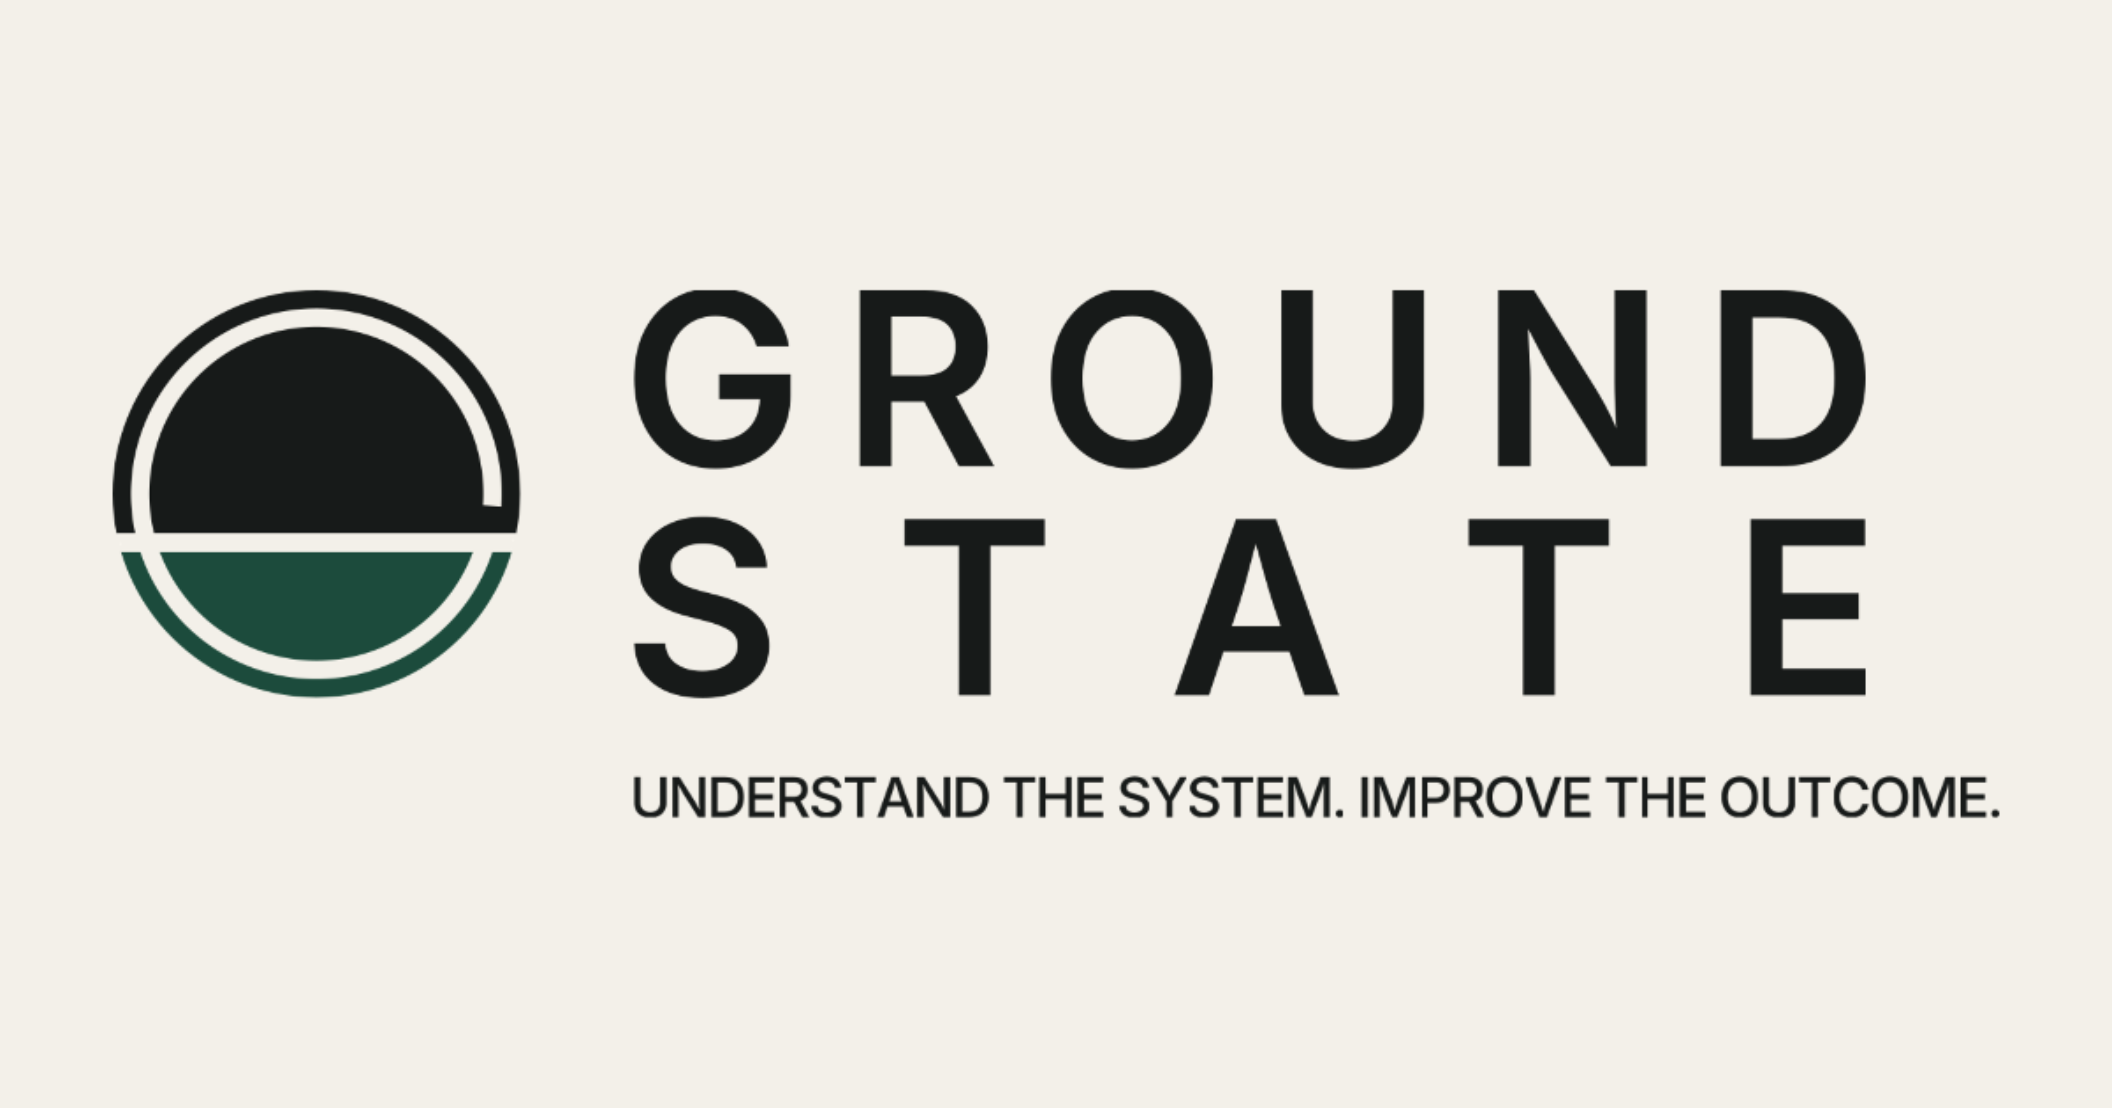
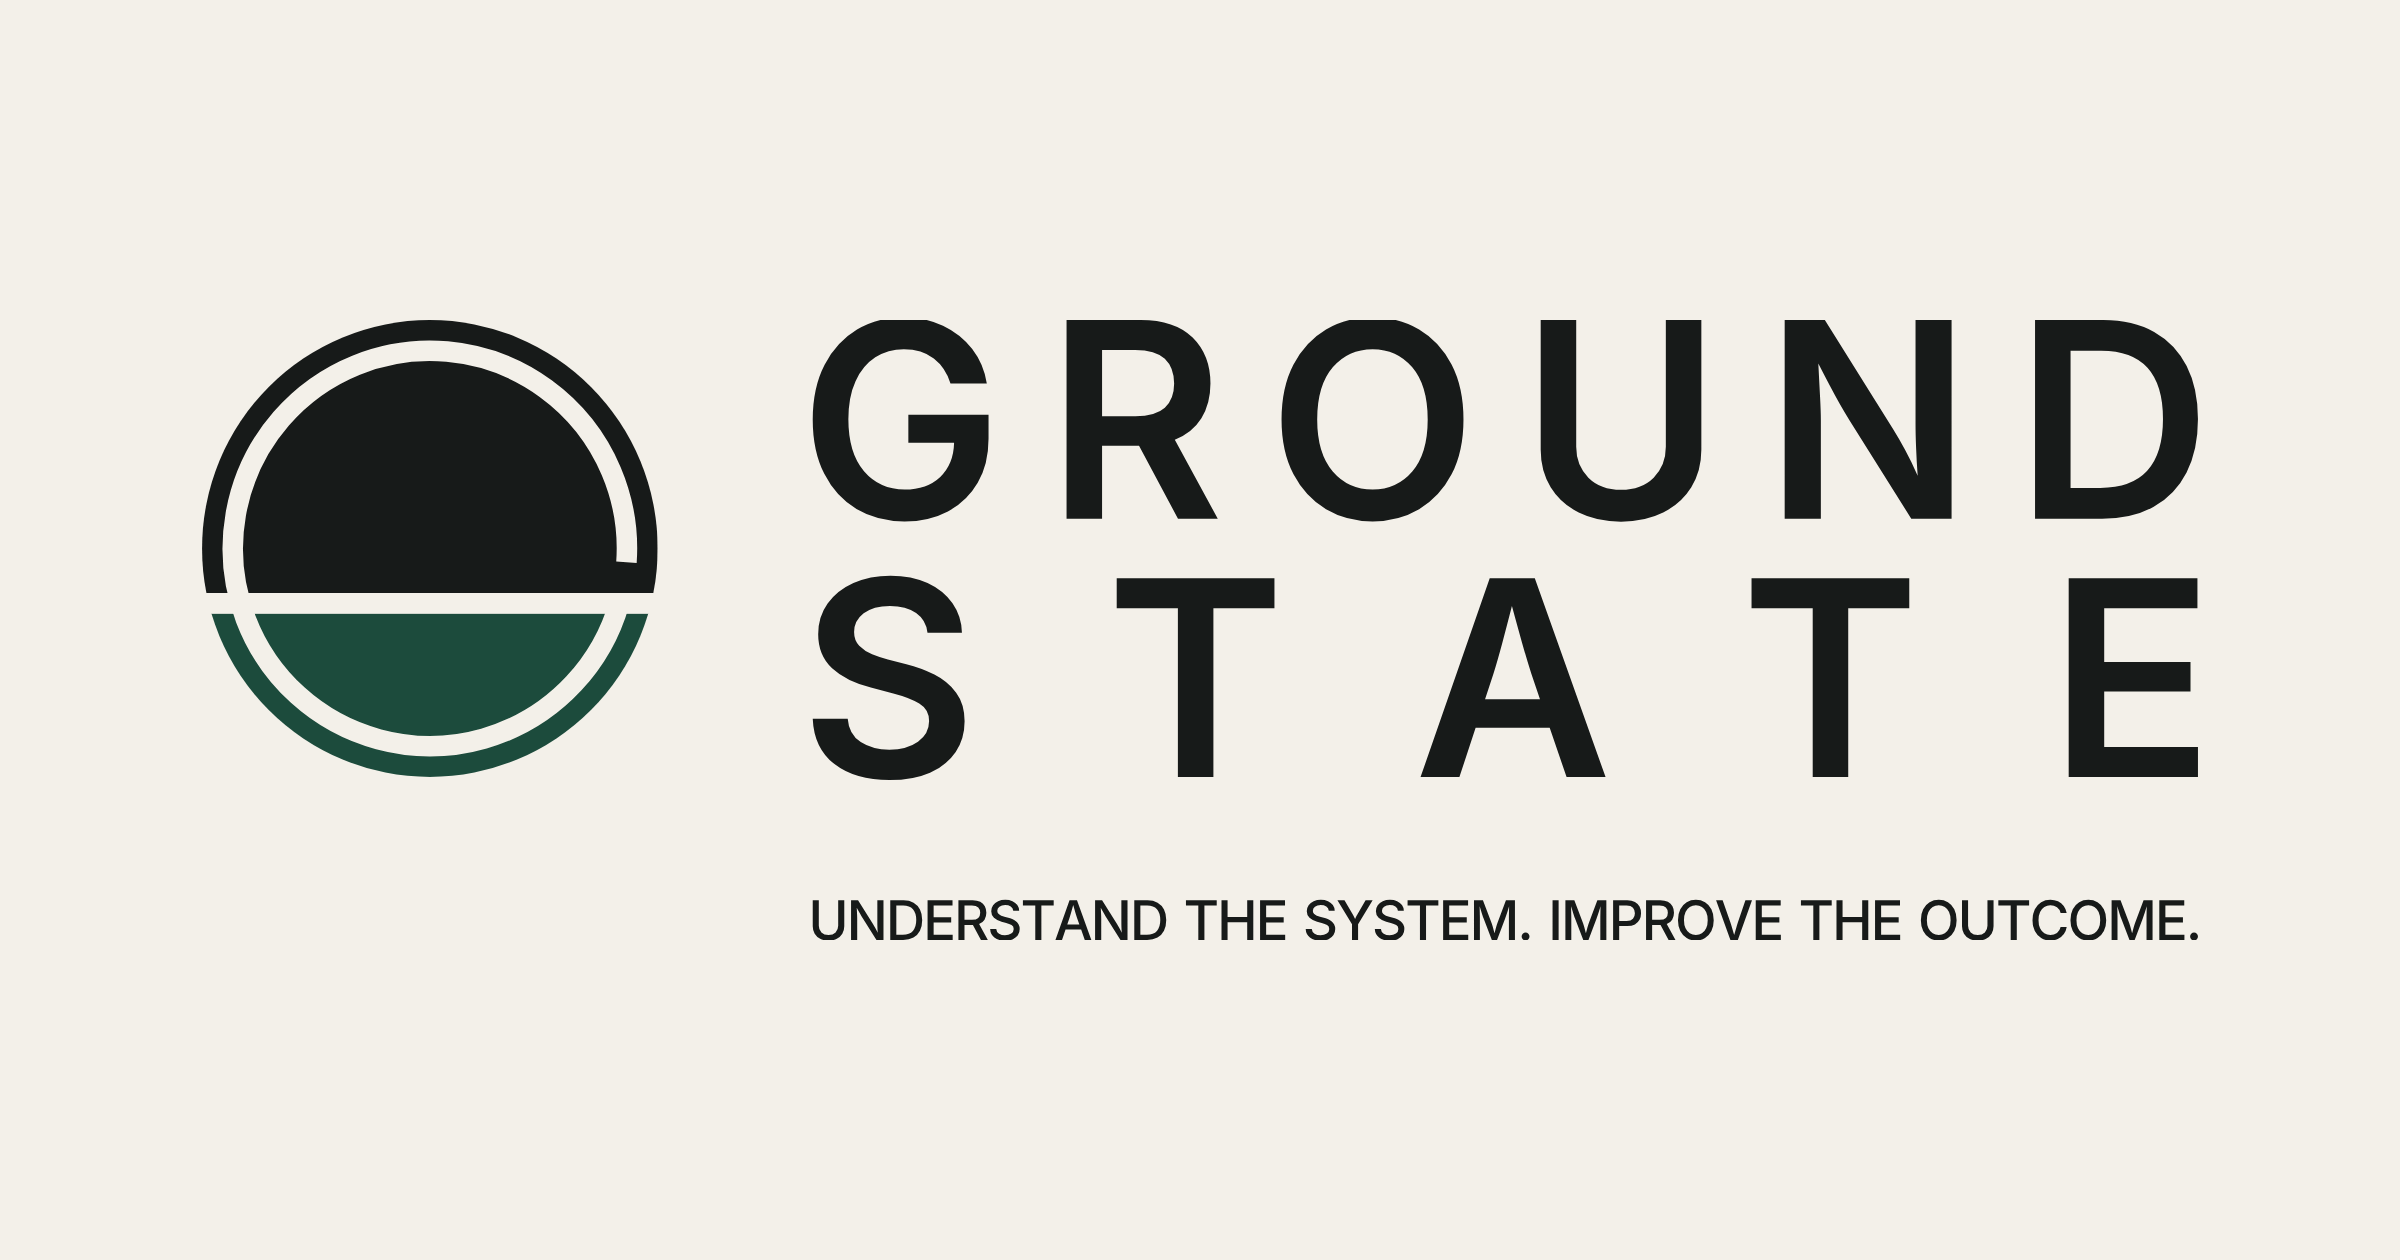
Brand: footer as Website V3, OG from the canonical lockup, category line first (#23)

diff --git a/components/chrome.tsx b/components/chrome.tsx
@@ -2,8 +2,8 @@
 
 import Link from "next/link";
 import { usePathname } from "next/navigation";
-import { useEffect, useState } from "react";
-import { NAV as nav } from "@/site.config";
+import { Fragment, useEffect, useState } from "react";
+import { NAV as nav, SITE_TAGLINE } from "@/site.config";
 
 /** True for the section's own page and anything beneath it, false for "/". */
 function isActive(pathname: string, href: string) {
@@ -125,9 +125,25 @@ export function Footer() {
     <footer className="border-t rule mt-24">
       <div className="mx-auto max-w-content px-4 md:px-6 lg:px-8 py-16">
         <div className="grid gap-12 md:grid-cols-[1fr_auto]">
-          <div>
-            <Lockup file="lockup-tagline-light" className="w-[300px] max-w-full h-auto dark:hidden" />
-            <Lockup file="lockup-tagline-dark" className="w-[300px] max-w-full h-auto hidden dark:block" />
+          {/* As Website V3's footer: the header's lockup, a step larger (V3 sets
+              its wordmark at 18 px here against 15 px in the header, so
+              190 px × 18/15 = 228 px), and the tagline as a label beneath it.
+              The tagline lockup's floor is 400 px, which a phone cannot give;
+              COPY.md says to use the plain lockup and set the tagline apart. */}
+          <div className="flex flex-col gap-4">
+            <Link href="/" aria-label="Ground State — home" className="self-start">
+              <Lockup file="lockup-horizontal-light" className="w-[228px] h-auto dark:hidden" />
+              <Lockup file="lockup-horizontal-dark" className="w-[228px] h-auto hidden dark:block" />
+            </Link>
+            {/* Both sentences stay whole: a narrow screen breaks between them. */}
+            <p className="label">
+              {SITE_TAGLINE.split(/(?<=\.) /).map((sentence, i) => (
+                <Fragment key={sentence}>
+                  {i > 0 && " "}
+                  <span className="whitespace-nowrap">{sentence}</span>
+                </Fragment>
+              ))}
+            </p>
           </div>
           <nav aria-label="Footer" className="grid grid-cols-2 gap-x-12 gap-y-3 md:text-right">
             {nav.map((item) => (

diff --git a/lib/metadata.ts b/lib/metadata.ts
@@ -1,6 +1,7 @@
 import type { Metadata } from "next";
 import {
   OG_IMAGE,
+  SITE_CATEGORY_LINE,
   SITE_DESCRIPTION,
   SITE_NAME,
   absoluteUrl,
@@ -38,6 +39,11 @@ export function pageMetadata({
   noindex?: boolean;
 }): Metadata {
   const url = absoluteUrl(path);
+  // The category line leads every meta description: a search result is a cold
+  // arrival, and the brand manual locks the line in front of those.
+  const lead = description.startsWith(SITE_CATEGORY_LINE)
+    ? description
+    : `${SITE_CATEGORY_LINE}. ${description}`;
   const fullTitle = title ? `${title} · ${SITE_NAME}` : SITE_NAME;
   // A page-specific image wins; otherwise every page falls back to the default.
   const source = ogImage
@@ -57,7 +63,7 @@ export function pageMetadata({
 
   return {
     ...(title ? { title } : {}),
-    description,
+    description: lead,
     ...(url ? { alternates: { canonical: url } } : {}),
     robots: noindex
       ? { index: false, follow: false }
@@ -67,7 +73,7 @@ export function pageMetadata({
         : { index: false, follow: false },
     openGraph: {
       title: fullTitle,
-      description,
+      description: lead,
       siteName: SITE_NAME,
       locale: "en_GB",
       type,
@@ -79,7 +85,7 @@ export function pageMetadata({
     twitter: {
       card: image ? "summary_large_image" : "summary",
       title: fullTitle,
-      description,
+      description: lead,
       ...(image ? { images: image.map((i) => i.url) } : {}),
     },
   };

diff --git a/app/styleguide/page.tsx b/app/styleguide/page.tsx
@@ -177,12 +177,12 @@ export default function StyleguidePage() {
               <div className="border rule p-8 bg-bone">
                 <Label className="mb-6">On bone</Label>
                 {/* eslint-disable-next-line @next/next/no-img-element */}
-                <img src="/brand/lockup-tagline-light.svg" alt="Ground State" className="w-full max-w-[320px]" />
+                <img src="/brand/lockup-horizontal-light.svg" alt="Ground State" className="w-[228px] h-auto" />
               </div>
               <div className="border border-ink-rule p-8 bg-ink">
                 <p className="label mb-6">On ink</p>
                 {/* eslint-disable-next-line @next/next/no-img-element */}
-                <img src="/brand/lockup-tagline-dark.svg" alt="Ground State" className="w-full max-w-[320px]" />
+                <img src="/brand/lockup-horizontal-dark.svg" alt="Ground State" className="w-[228px] h-auto" />
               </div>
             </div>
           </SectionBlock>

diff --git a/tests/metadata.test.ts b/tests/metadata.test.ts
@@ -1,0 +1,19 @@
+import { describe, expect, it } from "vitest";
+import { pageMetadata } from "../lib/metadata";
+import { SITE_CATEGORY_LINE, SITE_DESCRIPTION } from "../site.config";
+
+// The brand manual locks the category line in front of every meta description:
+// a search result is a cold arrival.
+describe("pageMetadata", () => {
+  it("puts the category line in front of a page's own description", () => {
+    const m = pageMetadata({ title: "About", description: "What Ground State is.", path: "/about" });
+    expect(m.description).toBe(`${SITE_CATEGORY_LINE}. What Ground State is.`);
+    expect(m.openGraph?.description).toBe(m.description);
+    expect(m.twitter?.description).toBe(m.description);
+  });
+
+  it("does not repeat it when the description already leads with it", () => {
+    expect(SITE_DESCRIPTION.startsWith(SITE_CATEGORY_LINE)).toBe(true);
+    expect(pageMetadata({ path: "/" }).description).toBe(SITE_DESCRIPTION);
+  });
+});

diff --git a/app/standard/page.tsx b/app/standard/page.tsx
@@ -8,7 +8,7 @@ import { SectionBlock } from "@/components/primitives";
 export const metadata: Metadata = pageMetadata({
   title: "Standard",
   description:
-    "What a claim has to survive before Ground State publishes it: traced to a primary source, read in full, weighed against what disagrees, classified, and translated into practice.",
+    "What a claim has to survive before Ground State publishes it: traced to the evidence it rests on, bounded by the access verified, weighed against what disagrees, classified, and translated no further than the evidence reaches.",
   path: "/standard",
 });
 

diff --git a/site.config.ts b/site.config.ts
@@ -66,8 +66,8 @@ export interface OgImage {
  */
 export const OG_IMAGE: OgImage | null = {
   path: "/og-default.png",
-  width: 2112,
-  height: 1108,
+  width: 2400,
+  height: 1260,
   alt: "Ground State — Understand the system. Improve the outcome.",
 };
 
